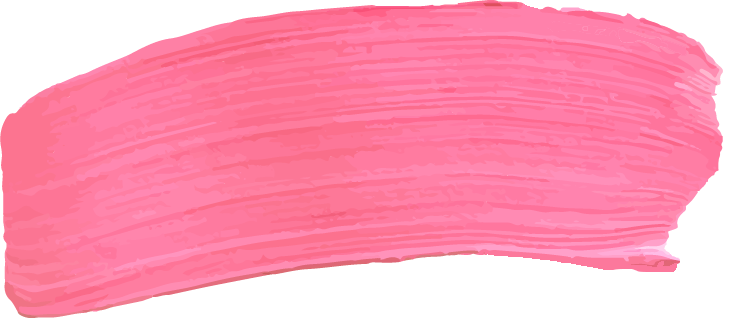
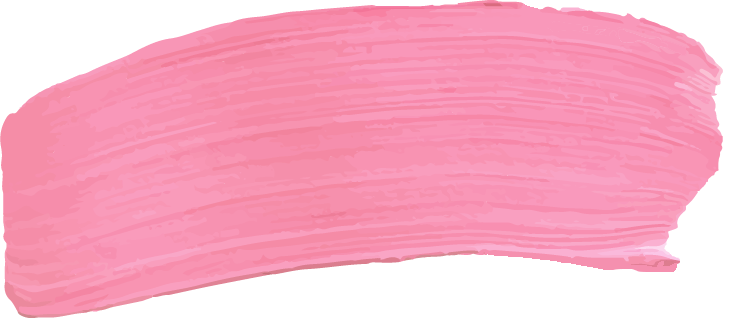
gallery construction pt 2
changed my mind about that heading. also changed brushstroke image colors yet again. deleted fancy heading class (superfluous)

diff --git a/contact.html b/contact.html
@@ -26,7 +26,10 @@
                     <div class="column">
                         <article>
                             <section>
-                                <div class="box"><img class="fancy-heading" src="resources/brushstroke-1.png" alt="image of a stroke of pink paint"><h2>contact</h2></div>
+                                <div class="box">
+                                    <img src="resources/brushstroke-1.png" alt="image of a stroke of pink paint">
+                                    <h2>contact</h2>
+                                </div>
                                 <p>
                                     have a question, product idea, or commission? want to
                                     collaborate on a project? fill out this form and
@@ -35,7 +38,11 @@
                                 </p>
                             </section>
                             <section>
-                                <div class="box"><img class="fancy-heading" src="resources/brushstroke-3.png" alt="image of a stroke of pink paint"><h2>faq</h2></div>
+                                <div class="box">
+                                    <img src="resources/brushstroke-3.png" alt="image of a stroke of pink paint">
+                                    <h2>faq</h2>
+                                </div>
+
                                 <h3>what commissions services are available?</h3>
                                 <ul>
                                     <li>photoshoot (graduation, professional headshot, businesses or products, and more) <a href="/photography.html">(examples)</a></li>
@@ -45,12 +52,14 @@
                                     <li>t-shirt designs <a href="/graphic-design.html">(examples)</a></li>
                                 </ul>
                                 <br>
+
                                 <h3>available services DO NOT include:</h3>
                                 <ul>
                                     <li>heavy photo manipulation</li>
                                     <li>multiple commissions per person or large orders</li>
                                 </ul>
                                 <br>
+
                                 <h3>have more questions? go ahead and fill out the form!</h3>
                                 <p>if you have received a service from me in the past, 
                                     please consider leaving a review for me to post on this site!

diff --git a/resources/css/index.css b/resources/css/index.css
@@ -100,7 +100,7 @@ nav a:hover, nav a:active, nav a:focus {
     text-align: center;
 }
 
-.box-link, article h2 {
+.box-link, h2 {
     display: block;
     position: absolute;
     width: 100%;
@@ -122,7 +122,7 @@ nav a:hover, nav a:active, nav a:focus {
     background-color: rgba(255, 255, 255, 1);
 }
 
-.box img, .fancy-heading {
+.box img {
     display: block;
     position: relative;
     z-index: 100;
@@ -255,7 +255,7 @@ input[type=submit] {
 }
 
 .inverse h3{
-    background-color: rgb(240, 162, 186);
+    background-color: rgb(240, 162, 186) !important;
     color: white;
 }
 
@@ -276,6 +276,12 @@ input[type=submit] {
 
 .gallery .column {
     width: 33.3333333%;
+    background-color: black;
+}
+
+.gallery h3 {
+    line-height: 4rem;
+    height: 4rem;
 }
 
 footer {
@@ -337,3 +343,4 @@ footer {
 
 /*add menu collapser thing for mobile and other media rules*/
 /*add javascript style gallery so images don't take so long to load*/
+/*add disclaimer in footer or on hover of certain images (unaffiliated w/ converse etc.)*/

diff --git a/about.html b/about.html
@@ -25,7 +25,11 @@
                 <div class="row">
                     <div class="column">
                         <article>
-                            <div class="box"><img class="fancy-heading" src="resources/brushstroke-1.png" alt="image of a stroke of pink paint"><h2>about</h2></div>
+                            <div class="box">
+                                <img src="resources/brushstroke-1.png" alt="image of a stroke of pink paint">
+                                <h2>about</h2>
+                            </div>
+
                             <p>
                                 out of lead was a project started by karen yi in college
                                 as an outlet for all of her creative interests. here, you'll

diff --git a/graphic-design.html b/graphic-design.html
@@ -24,8 +24,8 @@
             <main>
                 <div class="row gallery">
                     <div class="column">
-                        <div class="box">
-                            <h2 class="fancy-heading">graphic design</h2> 
+                        <div class="box inverse">
+                            <h3>graphic design</h3>
                         </div> 
                         <img src="resources/illustrated-converse.jpg" alt="Photo of white Converse shoe with black illustrations (side view)">
                         <img src="resources/illustrated-converse-top.jpg" alt="Photo of white Converse shoe with black illustrations (top view)">  

diff --git a/photography.html b/photography.html
@@ -24,8 +24,8 @@
             <main>
                 <div class="row gallery">
                     <div class="column">
-                        <div class="box">
-                            <h2 class="fancy-heading">photography</h2>
+                        <div class="box inverse">
+                            <h3>photography</h3>
                         </div>
                         <img src="resources/milk-and-macarons.jpg" alt="Photo of bottle of milk and pink macarons">
                         <img src="resources/boy-sunset.jpg" alt="Photo of silhouetted young man during sunset">
